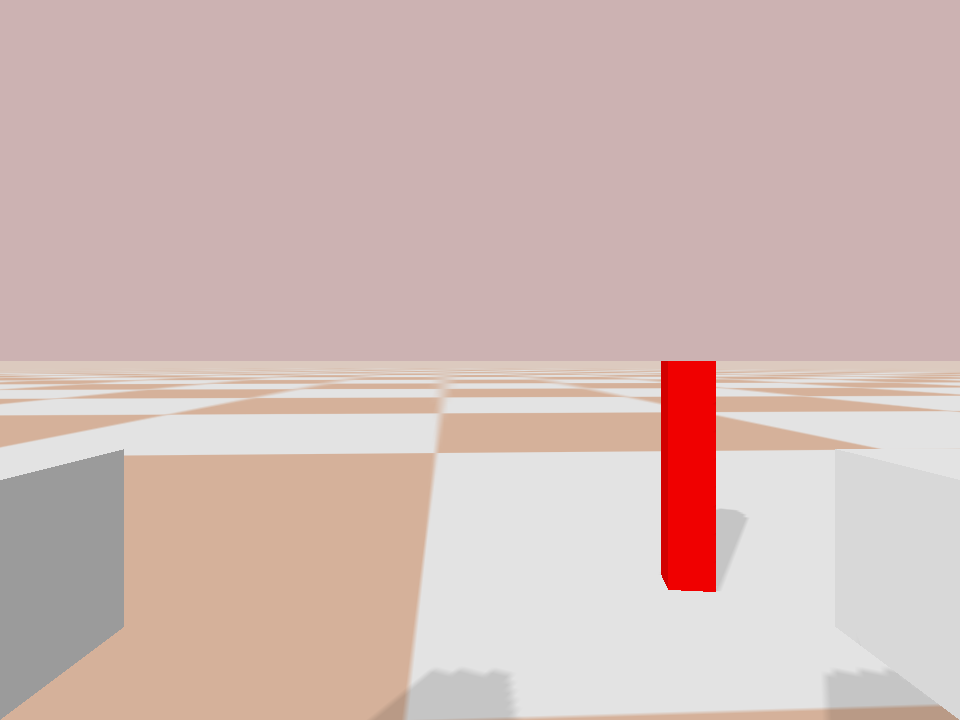
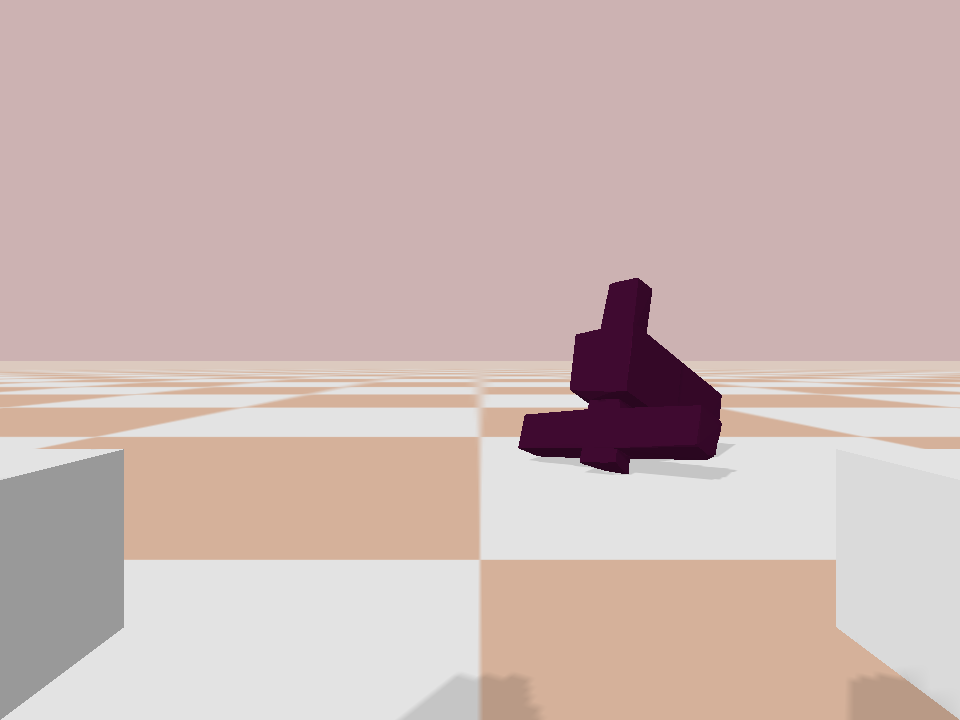
incorporated random_urdfs from pybullet_data

Changed region(s): [[0.0, 0.3667, 1.0, 1.0]]

diff --git a/underactuated_manipulation_gym/resources/object_loader.py b/underactuated_manipulation_gym/resources/object_loader.py
@@ -3,6 +3,7 @@ import os
 import numpy as np
 import yaml
 import pybullet as p
+import pybullet_data
 
 # from man_object import ObjectMan
 from underactuated_manipulation_gym.resources.man_object import ObjectMan
@@ -13,9 +14,16 @@ class ObjectLoader:
     def __init__(self, client, object_class) -> None:
         self.client = client
         self.spawn_config = self._load_config()["spawn_config"]
-        self.object_paths = self._load_object_paths(object_class)
+        self.global_scale = 1
+        if object_class == "random_urdfs":
+            self.object_paths = [str(file) for file in Path(f"{pybullet_data.getDataPath()}/{object_class}/").rglob('*.urdf') if file.is_file()]
+            self.global_scale = 4
+        else:
+            self.object_paths = self._load_object_paths(object_class)
+        if len(self.object_paths) == 0:
+            raise Exception(f"No objects found for {object_class}")
+        
         self.current_object = None
-
         self.rng = np.random.default_rng()
 
     def change_object(self, pose=None):
@@ -30,7 +38,7 @@ class ObjectLoader:
     def _spawn_object(self, pose):
         if pose is None:
             pose = self._sample_pose()
-        return ObjectMan(self.client, self.rng.choice(self.object_paths), pose)
+        return ObjectMan(self.client, self.rng.choice(self.object_paths), pose, self.global_scale)
 
     def _remove_object(self):
         self.current_object.remove_from_sim()

diff --git a/underactuated_manipulation_gym/resources/man_object.py b/underactuated_manipulation_gym/resources/man_object.py
@@ -4,10 +4,10 @@ import os
 
 
 class ObjectMan():
-    def __init__(self, client, object_path, pose):
+    def __init__(self, client, object_path, pose, scale=1):
         self.client = client
         pos, orn = pose
-        self.manipulation_object = p.loadURDF(object_path, pos, orn, physicsClientId=self.client)
+        self.manipulation_object = p.loadURDF(object_path, pos, orn, globalScaling=scale, physicsClientId=self.client)
     
     """
     Returns the client and robot ids

diff --git a/underactuated_manipulation_gym/envs/simple_driving_env.py b/underactuated_manipulation_gym/envs/simple_driving_env.py
@@ -19,7 +19,7 @@ class DifferentialDriveEnv(gym.Env):
         p.setRealTimeSimulation(0)
         self.robot = Queenie_Robot(self.client)
         self.plane = Plane(self.client)
-        self.object_loader = ObjectLoader(self.client, "objects_cuboid")
+        self.object_loader = ObjectLoader(self.client, "random_urdfs")
         self.current_object = None
 
         self.observation_space = self._get_observation_space()
